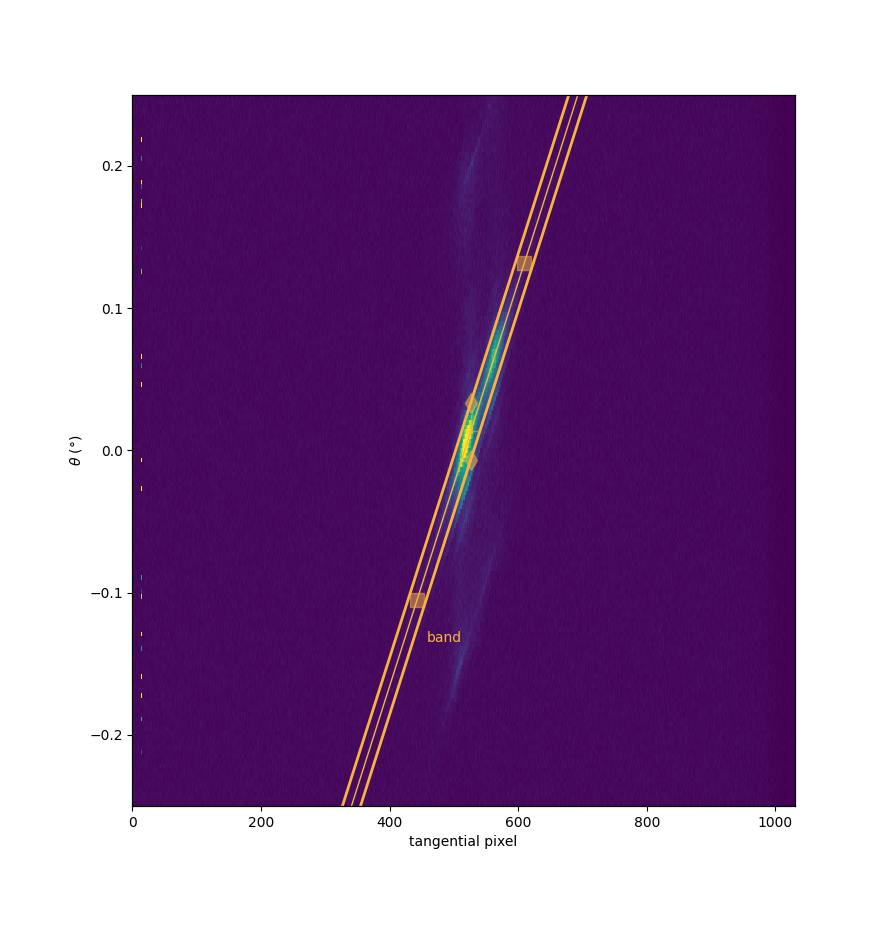
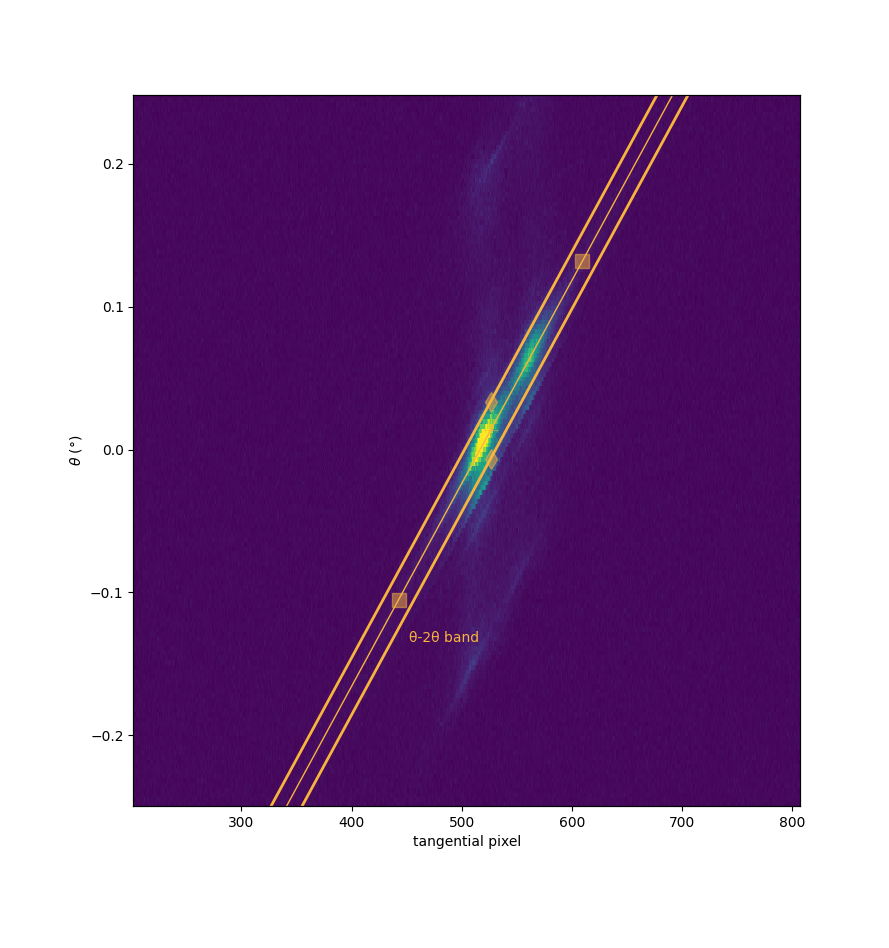
add fractional pixels

diff --git a/parseq_XES_scan/XES_scan_widgets.py b/parseq_XES_scan/XES_scan_widgets.py
@@ -1,9 +1,9 @@
 # -*- coding: utf-8 -*-
 __author__ = "Konstantin Klementiev"
-__date__ = "3 Dec 2022"
+__date__ = "28 Apr 2024"
 # !!! SEE CODERULES.TXT !!!
 
-# import numpy as np
+import numpy as np
 # from functools import partial
 
 from silx.gui import qt
@@ -13,9 +13,9 @@ from parseq.core import singletons as csi
 from parseq.core import commons as cco
 from parseq.gui.propWidget import PropWidget
 from parseq.gui.calibrateEnergy import CalibrateEnergyWidget
-from parseq.gui.roi import RoiWidget, RangeWidget
+from parseq.gui.roi import RoiWidget, AutoRangeWidget
 
-# from . import XES_scan_reduced_transforms as xtr
+# from . import XES_scan_transforms as xtr
 
 
 class Tr2Widget(PropWidget):
@@ -23,10 +23,9 @@ class Tr2Widget(PropWidget):
     Get XES band
     ------------
 
-    This transformation reduces the 3D XES array to a 2D θ-2θ-like plane. The
-    plot is used for constructing a band that contains the emission spectrum.
-    Presently, before `silx` implements a “Band ROI”, we compose it from two
-    points and a width parameter.
+    This transformation reduces a 2D θ-2θ-like plane. The plot is used for
+    constructing a band that contains the emission spectrum. We use a
+    `Band ROI` of silx.
 
     After the band has been set, one should do `Accept ROI`.
     """
@@ -148,9 +147,19 @@ class Tr3Widget(PropWidget):
 
         layout = qt.QVBoxLayout()
 
-        self.bandUse = qt.QCheckBox(u'use θ–2θ band masking')
-        self.registerPropWidget(self.bandUse, self.bandUse.text(), 'bandUse')
+        self.bandUse = qt.QGroupBox()
+        self.bandUse.setFlat(False)
+        self.bandUse.setTitle(u'use θ–2θ band masking')
+        self.bandUse.setCheckable(True)
+        self.registerPropWidget(self.bandUse, self.bandUse.title(), 'bandUse')
         # self.bandUse.setEnabled(False)
+        layoutB = qt.QVBoxLayout()
+        self.bandFractionalPixel = qt.QCheckBox('allow fractional pixels')
+        self.registerPropWidget(
+            self.bandFractionalPixel, self.bandFractionalPixel.text(),
+            'bandFractionalPixels')
+        layoutB.addWidget(self.bandFractionalPixel)
+        self.bandUse.setLayout(layoutB)
         layout.addWidget(self.bandUse)
 
         subtract = qt.QCheckBox('subtract global line')
@@ -186,7 +195,7 @@ class Tr3Widget(PropWidget):
         self.calibrationUse.setEnabled(False)
         layout.addWidget(self.calibrationUse)
 
-        self.thetaRangeWidget = RangeWidget(
+        self.thetaRangeWidget = AutoRangeWidget(
             self, plot, u'set θ range', '', u'θ-range', "#da70d6",
             "{0[0]:.3f}, {0[1]:.3f}", self.initThetaRange)
         self.registerPropWidget(self.thetaRangeWidget, 'θ-range', 'thetaRange')
@@ -201,7 +210,16 @@ class Tr3Widget(PropWidget):
         if len(csi.selectedItems) == 0:
             return
         data = csi.selectedItems[0]
-        return [data.theta[0], data.theta[-1]]
+        minTheta, maxTheta = np.inf, -np.inf
+        try:
+            for data in csi.selectedItems:
+                if not hasattr(data, 'theta'):  # can be for combined data
+                    continue
+                minTheta = min(data.theta[0], minTheta)
+                maxTheta = max(data.theta[-1], maxTheta)
+        except Exception:
+            return [0, 1]
+        return [minTheta, maxTheta]
 
     def extraSetUIFromData(self):
         if len(csi.selectedItems) == 0:
@@ -249,13 +267,44 @@ class Tr3Widget(PropWidget):
 
     def extraPlot(self):
         plot = self.node.widget.plot
+        wasCalibrated = False
         for data in csi.allLoadedItems:
             if not self.node.widget.shouldPlotItem(data):
                 continue
-            if hasattr(data, 'rce'):
-                legend = '{0}-rc({1})'.format(data.alias, data.rcE)
+            if not hasattr(data, 'rcE'):
+                continue
+            dtparams = data.transformParams
+            legend = '{0}-rc({1})'.format(data.alias, data.rcE)
+            if dtparams['calibrationPoly'] is not None and \
+                    dtparams['calibrationFind']:
+                wasCalibrated = True
+            if hasattr(data, 'rce') and dtparams['calibrationFind']:
                 plot.addCurve(
                     data.rce, data.rc, linestyle='-', symbol='.', color='gray',
                     legend=legend, resetzoom=False)
                 curve = plot.getCurve(legend)
                 curve.setSymbolSize(3)
+            else:
+                plot.remove(legend, kind='curve')
+
+        if wasCalibrated:
+            xnode = self.node
+            units = xnode.get_arrays_prop('plotUnit', role='x')
+            if units:
+                unit = units[0]
+                strUnit = u" ({0})".format(unit) if unit else ""
+            else:
+                strUnit = ''
+            xArrName = xnode.get_prop(xnode.plotXArray, 'plotLabel')
+        else:
+            xnode = csi.nodes['2D theta scan']
+            units = xnode.get_arrays_prop('plotUnit', role='y')
+            if units:
+                unit = units[0]
+                strUnit = u" ({0})".format(unit) if unit else ""
+            else:
+                strUnit = ''
+            xArrName = xnode.get_prop(xnode.plotYArrays[0], 'plotLabel')
+        xlabel = u"{0}{1}".format(xArrName, strUnit)
+        # print(xlabel)
+        plot.setGraphXLabel(xlabel)

diff --git a/parseq_XES_scan/XES_scan_transforms.py b/parseq_XES_scan/XES_scan_transforms.py
@@ -1,6 +1,6 @@
 # -*- coding: utf-8 -*-
 __author__ = "Konstantin Klementiev"
-__date__ = "3 Dec 2022"
+__date__ = "28 Apr 2024"
 # !!! SEE CODERULES.TXT !!!
 
 import numpy as np
@@ -60,9 +60,10 @@ class Tr2(ctr.Transform):
 
 
 class Tr3(ctr.Transform):
-    name = 'get XES and calibrate energy (reduced)'
+    name = 'get XES and calibrate energy'
     defaultParams = dict(
-        bandUse=False, subtractLine=True,
+        bandUse=False, bandFractionalPixels=False,
+        subtractLine=True,
         thetaRange=[],
         calibrationFind=False, calibrationData={},
         calibrationHalfPeakWidthSteps=7, calibrationPoly=None)
@@ -130,8 +131,9 @@ class Tr3(ctr.Transform):
             spenergy = np.polyval(dtparams['calibrationPoly'], sp.thetaC)
             cond = abs(spenergy - E) < rcBand/2
             xesCut = sp.xes[cond]
-            eCut = spenergy[cond]
-            rc *= abs(trapz(xesCut, eCut) / trapz(rc, e))
+            # eCut = spenergy[cond]
+            # rc *= abs(trapz(xesCut, eCut) / trapz(rc, e))
+            rc *= xesCut.max() / rc.max()
             sp.rc, sp.rce, sp.rcE = rc, e, E
             cd['FWHM'].append(uma.fwhm(e, rc))
 
@@ -140,15 +142,22 @@ class Tr3(ctr.Transform):
         dtparams = data.transformParams
 
         if dtparams['bandLine'] is not None and dtparams['bandUse']:
-            # xv, yv = np.meshgrid(np.arange(data.xes2D.shape[1]),
-            #                      np.arange(data.xes2D.shape[0]))
-            xv, yv = np.meshgrid(np.arange(data.xes2D.shape[1]), data.theta)
             k, b, w = dtparams['bandLine']
             dataCut = np.array(data.xes2D, dtype=np.float32)
-            dataCut[yv > k*xv + b + w/2] = 0
-            dataCut[yv < k*xv + b - w/2] = 0
-            # dataCut[yv > k*(xv+w/2) + b] = 0
-            # dataCut[yv < k*(xv-w/2) + b] = 0
+            u, v = np.meshgrid(np.arange(data.xes2D.shape[1]), data.theta)
+            dt = abs(data.theta[-1] - data.theta[0]) / (len(data.theta) - 1)
+            vm = v - k*u - b - w/2
+            vp = v - k*u - b + w/2
+            if dtparams['bandFractionalPixels'] and (dt > 0):
+                dataCut[vm > dt] = 0
+                dataCut[vp < -dt] = 0
+                vmWherePartial = (vm > 0) & (vm < dt)
+                dataCut[vmWherePartial] *= vm[vmWherePartial] / dt
+                vpWherePartial = (vp > -dt) & (vp < 0)
+                dataCut[vpWherePartial] *= -vp[vpWherePartial] / dt
+            else:
+                dataCut[vm > 0] = 0
+                dataCut[vp < 0] = 0
             data.xes = dataCut.sum(axis=1)
         else:
             data.xes = data.xes2D.sum(axis=1)

diff --git a/setup.py b/setup.py
@@ -6,8 +6,8 @@ Scanning XES
 ============
 
 A pipeline for the ParSeq framework that implements data processing of XES
-theta scans, where the crystal (here only one) is scanned in its theta angle
-and the analyzed emission is collected by a 2D detector.
+theta scans, where the crystals are scanned in their theta anglesand the
+analyzed emission is collected by a 2D detector.
 
 This pipeline also serves as an example for creating analysis nodes, transforms
 that connect these nodes and widgets that set options and parameters of the
@@ -23,16 +23,16 @@ How to use
 ----------
 
 Either install ParSeq and this pipeline application by their installers or put
-their folders near by and run `python XES_scan_reduced_start.py`. You can try
+their folders near by and run `python XES_scan_start.py`. You can try
 it with `--test` to load test data and/or `--noGUI` but an assumed pattern is
 to load a project file; use the test project file located in
-`XES_scan_reduced/saved`.
+`parseq_XES_scan/saved`.
 
 """
 
 setup(
-    name='parseq_XES_scan_reduced',
-    version='0.1.0',
+    name='parseq_XES_scan',
+    version='2024.4.0',
     description='A pipeline for data processing of XES theta scans',
     long_description=long_description,
     long_description_content_type='text/x-rst',
@@ -44,10 +44,10 @@ setup(
     keywords='data-analysis pipeline framework gui synchrotron spectroscopy',
     # python_requires=,
     zip_safe=False,  # True: build zipped egg, False: unzipped
-    packages=['parseq_XES_scan_reduced'],
+    packages=['parseq_XES_scan'],
     package_data={
-        'parseq_XES_scan_reduced': ['data/*.*', 'doc/_images/*.*', 'saved/*.*']},
-    scripts=['parseq_XES_scan_reduced/XES_scan_reduced_start.py'],
+        'parseq_XES_scan': ['data/*.*', 'doc/_images/*.*', 'saved/*.*']},
+    scripts=['parseq_XES_scan/XES_scan_start.py'],
     install_requires=['numpy>=1.8.0', 'scipy>=0.17.0', 'matplotlib>=2.0.0',
                       'sphinx>=1.6.2', 'h5py', 'silx>=1.1.0', 'hdf5plugin'],
     classifiers=['Development Status :: 5 - Production/Stable',

diff --git a/parseq_XES_scan/XES_scan_start.py b/parseq_XES_scan/XES_scan_start.py
@@ -8,7 +8,7 @@ import argparse
 
 import parseq.core.singletons as csi
 import parseq.core.save_restore as csr
-import parseq_XES_scan_reduced as myapp
+import parseq_XES_scan as myapp
 
 
 def main(projectFile=None, withGUI=True):
@@ -19,7 +19,7 @@ def main(projectFile=None, withGUI=True):
 
     if withGUI:
         node0 = list(csi.nodes.values())[0]
-        node0.includeFilters = ['*.h5', '*.dat']
+        node0.includeFilters = ['*.h5']
 
         from silx.gui import qt
         from parseq.gui.mainWindow import MainWindowParSeq
@@ -44,14 +44,19 @@ def main(projectFile=None, withGUI=True):
 
 if __name__ == '__main__':
     parser = argparse.ArgumentParser(
-        description="starter of parseq_XES_scan_reduced")
+        description="starter of parseq_XES_scan")
     parser.add_argument("-p", "--projectFile", metavar='NNN.pspj',
                         help="load a .pspj project file")
     parser.add_argument("-v", "--verbosity", type=int, default=0,
                         help="verbosity level for diagnostic purpose")
     parser.add_argument("-nG", "--noGUI", action="store_true",
                         help="start the data pipeline without GUI")
+    parser.add_argument("-b", "--plotBackend", metavar='backend_name',
+                        help="plot backend used by silx, either matplotlib"
+                        " (set by default) or opengl")
     args = parser.parse_args()
 
+    if args.plotBackend:
+        csi.plotBackend = args.plotBackend
     csi.DEBUG_LEVEL = args.verbosity
     main(projectFile=args.projectFile, withGUI=not args.noGUI)

diff --git a/parseq_XES_scan/__init__.py b/parseq_XES_scan/__init__.py
@@ -12,7 +12,7 @@ import os.path as osp
 
 import sys; sys.path.append('..')  # analysis:ignore
 from parseq.core import singletons as csi
-from .XES_scan_reduced_pipeline import make_pipeline
+from .XES_scan_pipeline import make_pipeline
 
 from .version import __versioninfo__, __version__, __date__
 
@@ -24,7 +24,7 @@ __synopsis__ = "A pipeline for data processing of XES theta scans"
 csi.pipelineName = 'XES scan (reduced)'
 csi.appPath = osp.dirname(osp.abspath(__file__))
 csi.appIconPath = osp.join(
-    csi.appPath, 'doc', '_images', 'XES_scan_reduced_icon.ico')
+    csi.appPath, 'doc', '_images', 'XES_scan_icon.ico')
 csi.appSynopsis = __synopsis__
 csi.appDescription = __doc__
 csi.appAuthor = __author__

diff --git a/parseq_XES_scan/XES_scan_pipeline.py b/parseq_XES_scan/XES_scan_pipeline.py
@@ -1,14 +1,14 @@
 # -*- coding: utf-8 -*-
 __author__ = "Konstantin Klementiev"
-__date__ = "3 Dec 2022"
+__date__ = "28 Apr 2024"
 # !!! SEE CODERULES.TXT !!!
 
 import sys; sys.path.append('..')  # analysis:ignore
 from parseq.core import singletons as csi
 from parseq.core import spectra as csp
-from . import XES_scan_reduced_nodes as xsno
-from . import XES_scan_reduced_transforms as xstr
-from . import XES_scan_reduced_widgets as xswi
+from . import XES_scan_nodes as xsno
+from . import XES_scan_transforms as xstr
+from . import XES_scan_widgets as xswi
 
 
 def make_pipeline(withGUI=False):

diff --git a/parseq_XES_scan/version.py b/parseq_XES_scan/version.py
@@ -1,4 +1,4 @@
 # -*- coding: utf-8 -*-
-__versioninfo__ = (0, 1, 0)
+__versioninfo__ = (2024, 4, 0)
 __version__ = '.'.join(map(str, __versioninfo__))
-__date__ = "3 Dec 2022"
+__date__ = "28 Apr 2024"

diff --git a/README.md b/README.md
@@ -28,6 +28,6 @@ How to use
 
 Either install ParSeq and this pipeline application by their installers or put
 their main folders near by (i.e. in the same folder) and run
-`python XES_scan_reduced_start.py`. You can try it with `--test` to load test data
+`python XES_scan_start.py`. You can try it with `--test` to load test data
 and/or `--noGUI` but an assumed pattern is to load a project file; use the test
-project file located in `parseq_XES_scan_reduced/saved`.
+project file located in `parseq_XES_scan/saved`.
